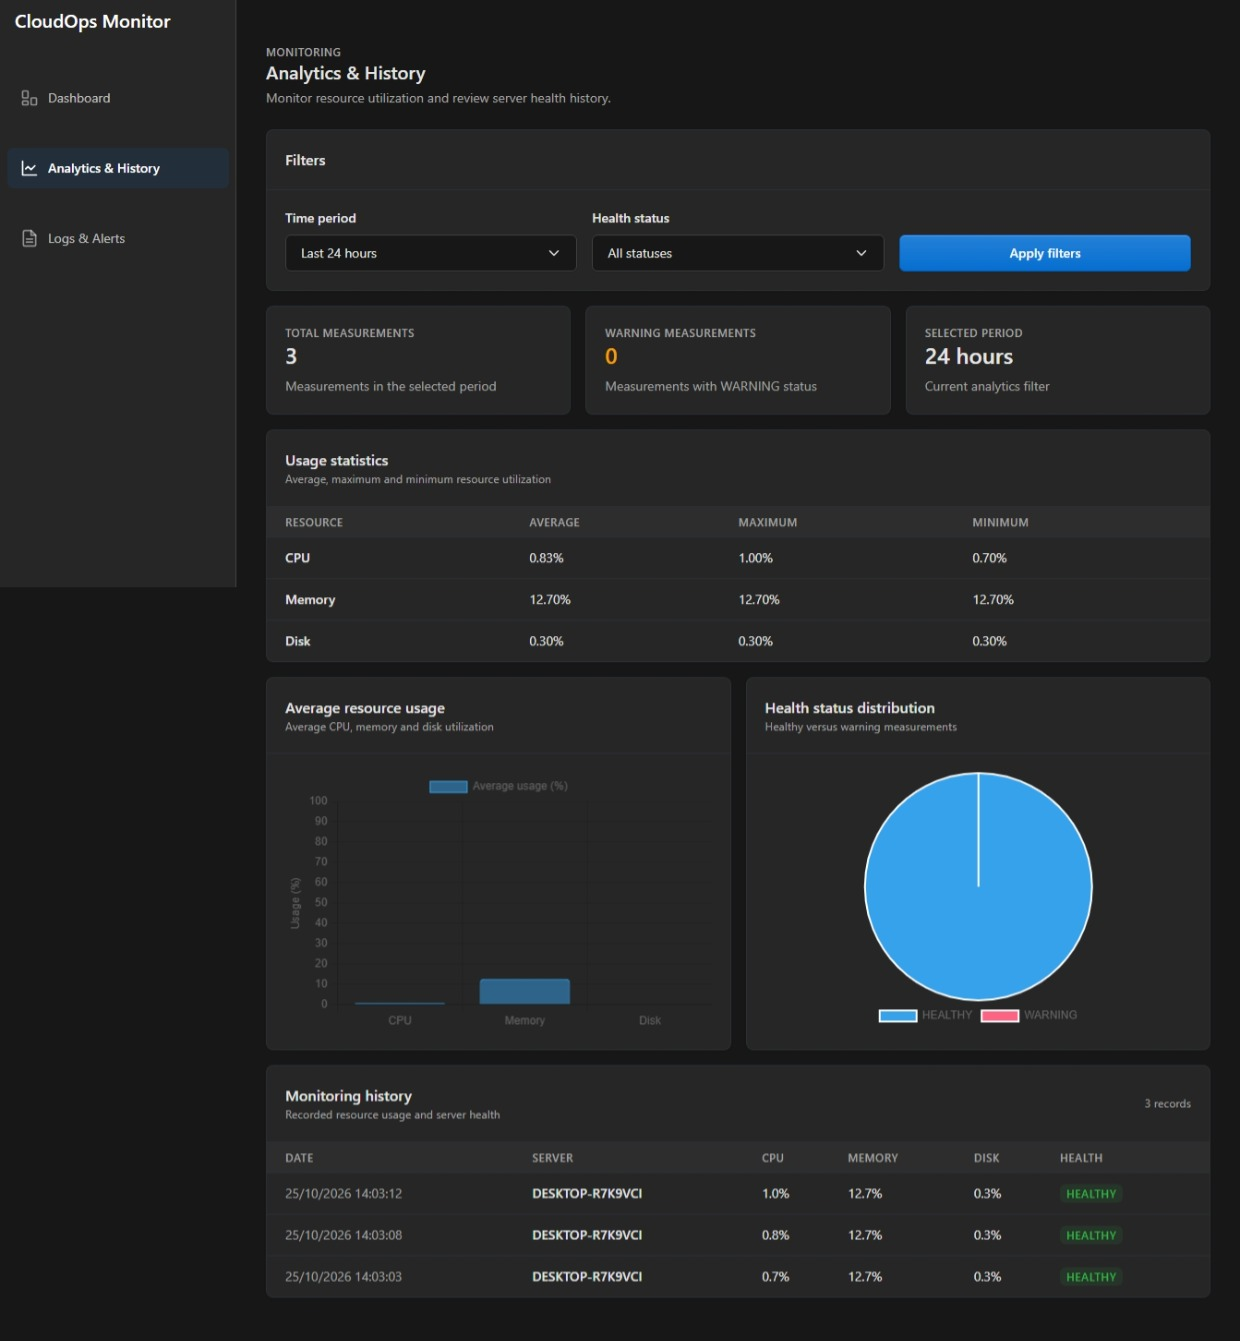
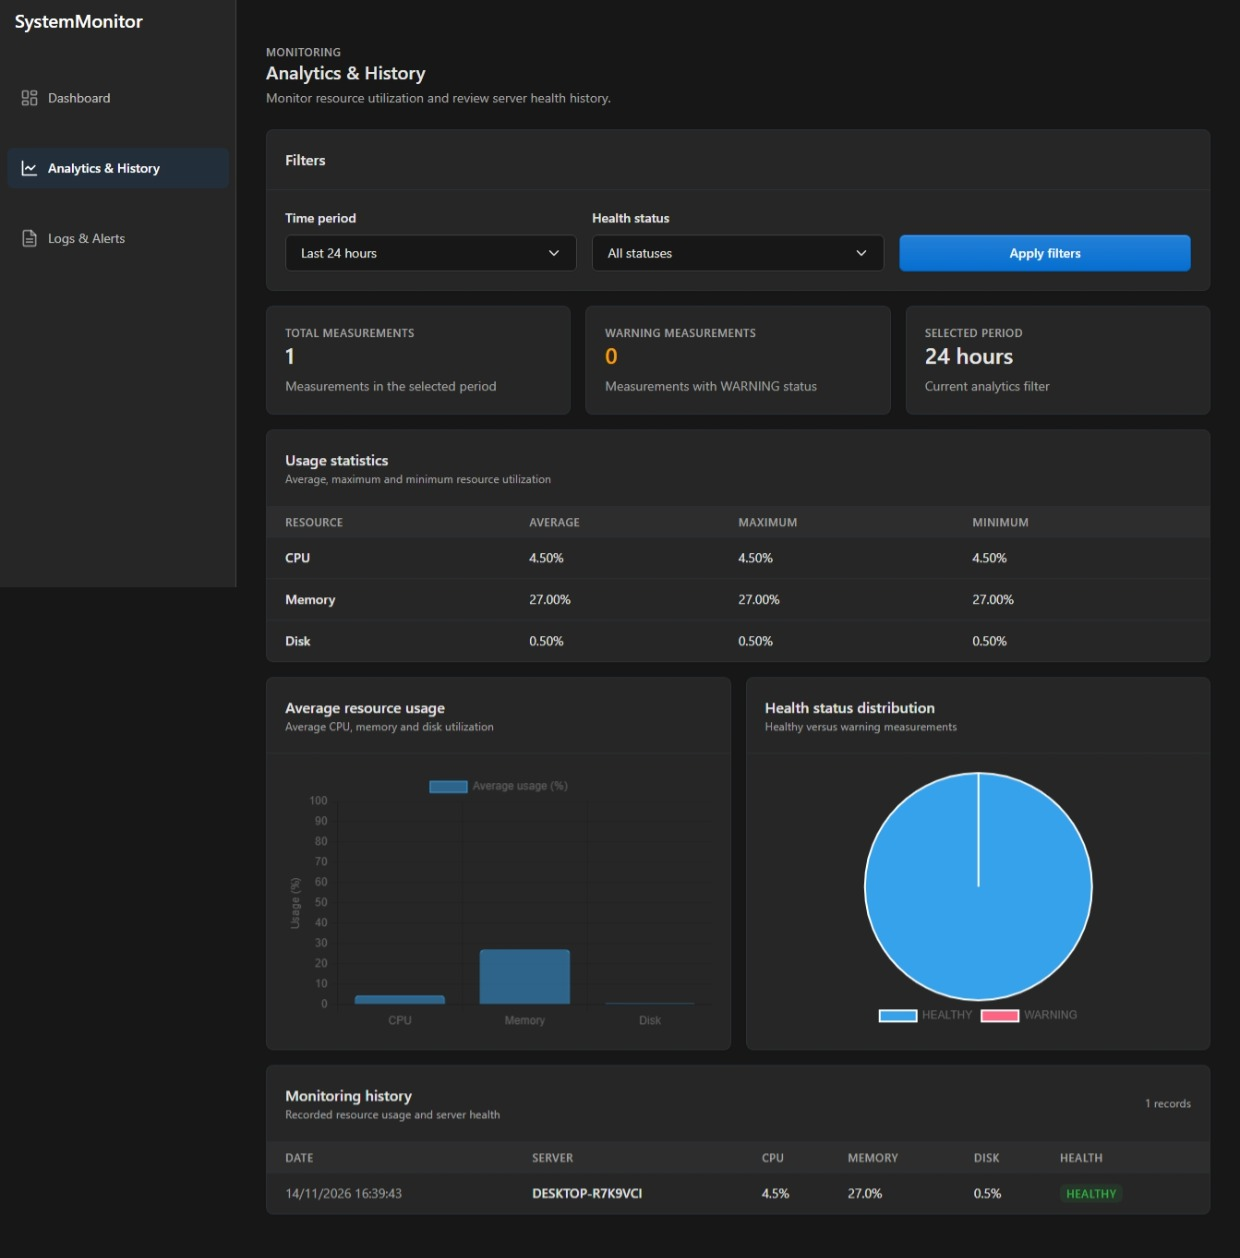
Update SystemMonitor branding, README and screenshots

diff --git a/templates/base.html b/templates/base.html
@@ -18,7 +18,7 @@
             <div class="container-fluid">
 
                 <h1 class="navbar-brand navbar-brand-autodark mb-4 w-100 text-center">
-                    <span>CloudOps Monitor</span>
+                    <span>SystemMonitor</span>
                 </h1>
 
                 <div class="collapse navbar-collapse show">
@@ -31,7 +31,7 @@
                                         fill="none" stroke="currentColor" stroke-width="2" stroke-linecap="round"
                                         stroke-linejoin="round">
                                         <rect x="3" y="3" width="7" height="9" rx="1" />
-                                        <rect x="14" y="3" width="7" heigh="5" rx="1" />
+                                        <rect x="14" y="3" width="7" height="5" rx="1" />
                                         <rect x="14" y="12" width="7" height="9" rx="1" />
                                         <rect x="3" y="16" width="7" height="5" rx="1" />
                                     </svg>

diff --git a/templates/index.html b/templates/index.html
@@ -1,11 +1,11 @@
 {% extends "base.html" %}
-{% block title %}CloudOps Monitor | Dashboard{% endblock %}
+{% block title %}SystemMonitor | Dashboard{% endblock %}
 
 {% block content %}
 
 <style>
     /* ==========================================
-       CLOUDOPS MONITOR — GRAPHITE DASHBOARD
+       SYSTEM MONITOR — GRAPHITE DASHBOARD
        ========================================== */
 
     .dashboard {

diff --git a/templates/logs.html b/templates/logs.html
@@ -1,5 +1,5 @@
 {% extends "base.html" %}
-{% block title %}CloudOps Monitor | Logs & Alerts{% endblock %}
+{% block title %}SystemMonitor | Logs & Alerts{% endblock %}
 {% block content %}
 <div class="page-header d-print-none mb-4">
     <div class="row align-items-center">

diff --git a/templates/analytics.html b/templates/analytics.html
@@ -1,5 +1,5 @@
 {% extends "base.html" %}
-{% block title %}CloudOps Monitor | Analytics{% endblock %}
+{% block title %}SystemMonitor | Analytics{% endblock %}
 {% block content %}
 <!-- Page header -->
 <div class="page-header d-print-none">

diff --git a/monitoring/reports.py b/monitoring/reports.py
@@ -34,7 +34,7 @@ def build_report(date, server, cpu_status, memory_status,
 
     report = f"""
 ==================================================
-                 CLOUDOPS MONITOR
+                 SYSTEMMONITOR
 ==================================================
 Monitoring date: {date}
 Server name: {server.server_name if server.server_name is not None else "Unavailable"}

diff --git a/app.py b/app.py
@@ -103,3 +103,6 @@ def logs():
         logs_content=logs_content,
         alert_filter=alert_filter,
     )
+
+if __name__ == "__main__":
+    app.run(debug=True, port=5000)    

diff --git a/README.md b/README.md
@@ -1,50 +1,55 @@
-# CloudOps Monitor
+# SystemMonitor
 
-CloudOps Monitor is a Python-based monitoring application designed to collect and display system metrics, monitor server health, check web service availability, and provide historical monitoring data through a web interface.
+SystemMonitor est une application de supervision développée en Python. Elle permet de collecter et d’afficher des métriques système, de surveiller l’état des serveurs, de vérifier la disponibilité des services web et de consulter l’historique des opérations de supervision à travers une interface web.
 
-The project combines system monitoring, data persistence, analytics, and log-based alerts in a Flask web application.
+Le projet combine la supervision système, la persistance des données, l’analyse des résultats et la gestion des alertes à partir des journaux, au sein d’une application web développée avec Flask.
 
-## Features
+## Fonctionnalités
 
-* System Metrics: Collects CPU, memory, and disk usage.
-* Server Health Monitoring: Evaluates server health based on monitoring results.
-* Web Service Checks: Checks web service availability and records HTTP responses.
-* Monitoring History: Stores monitoring results in an SQLite database.
-* Analytics Dashboard: Displays monitoring statistics and supports filtering by period and health status.
-* Logs and Alerts: Displays monitoring reports and allows filtering of alerts and web service errors.
-* Web Interface: Provides a dashboard built with Flask, HTML, CSS, and JavaScript.
+* Métriques système : collecte de l’utilisation du processeur (CPU), de la mémoire et du disque.
+* Surveillance de l’état des serveurs : évaluation de leur état de santé à partir des résultats de supervision.
+* Vérification des services web : contrôle de leur disponibilité et enregistrement des réponses HTTP.
+* Historique de supervision : stockage des résultats dans une base de données SQLite.
+* Tableau de bord analytique : affichage de statistiques et filtrage des résultats par période et par état de santé.
+* Journaux et alertes : consultation des rapports de supervision et filtrage des alertes et des erreurs liées aux services web.
+* Interface web : tableau de bord développé avec Flask, HTML, CSS et JavaScript.
 
-## Design Approach
+## Approche de conception
 
-This project uses HTML templates and the Tabler UI framework to provide a clean and functional web interface.
+Ce projet utilise des modèles HTML et le framework d’interface Tabler afin de proposer une interface web claire et fonctionnelle.
 
-I chose this approach to focus primarily on backend development, including system metrics collection, server health monitoring, database operations, analytics, and log management, while still delivering a usable web application.
+J’ai choisi cette approche pour me concentrer principalement sur le développement backend, notamment la collecte des métriques système, la surveillance de l’état des serveurs, les opérations sur la base de données, l’analyse des résultats et la gestion des journaux, tout en proposant une application web utilisable.
 
-This allowed me to prioritize the core monitoring logic and infrastructure-related functionality rather than building a frontend interface from scratch.
+Cette approche m’a permis de privilégier la logique de supervision et les fonctionnalités liées aux systèmes et à l’infrastructure, plutôt que de développer une interface frontend entièrement à partir de zéro.
 
-## Technologies Used
+## Technologies utilisées
 
-* Python: Core application logic and monitoring operations.
-* Flask: Web application framework and routing.
-* SQLite: Persistent storage for monitoring history.
-* psutil: System metrics collection.
-* Requests: HTTP requests for web service availability checks.
-* HTML, CSS, and JavaScript: Web interface.
-* Tabler: UI framework used to build the dashboard layout and components.
-* Git: Version control.
-* Linux (Ubuntu/WSL): Development environment.
+* Python : logique principale de l’application et opérations de supervision.
+* Flask : framework web utilisé pour gérer l’application et ses routes.
+* SQLite : stockage persistant de l’historique de supervision.
+* psutil : collecte des métriques système.
+* Requests : envoi de requêtes HTTP pour vérifier la disponibilité des services web.
+* HTML, CSS et JavaScript : technologies utilisées pour l’interface web.
+* Tabler : framework d’interface utilisé pour construire la structure et les composants du tableau de bord.
+* Git : gestion des versions du code.
+* Linux (Ubuntu/WSL) : environnement de développement.
 
-## Project Structure
+## Structure du projet
 
 ```text
-python-cloudops-monitor/
+system-monitor/
+│
 ├── app.py
 ├── config.py
 ├── requirements.txt
+├── .gitignore
+├── README.md
+│
 ├── database/
 │   ├── __init__.py
 │   ├── db.py
 │   └── schema.sql
+│
 ├── monitoring/
 │   ├── __init__.py
 │   ├── analytics.py
@@ -54,9 +59,16 @@ python-cloudops-monitor/
 │   ├── reports.py
 │   ├── service.py
 │   └── web_checks.py
+│
+├── screenshots/
+│   ├── dashboard.jpeg
+│   ├── analytics.jpeg
+│   └── logsAlerts.jpeg
+│
 ├── static/
 │   ├── css/
 │   └── js/
+│
 └── templates/
     ├── base.html
     ├── index.html
@@ -64,72 +76,70 @@ python-cloudops-monitor/
     └── logs.html
 ```
 
-## Main Components
+## Principaux composants
 
-* app.py: Defines the Flask application and web routes.
-* config.py: Manages application configuration.
-* database/: Handles database initialization, metric storage, and history retrieval.
-* monitoring/: Contains the monitoring logic, metrics collection, health checks, reports, logs, and analytics.
-* templates/: Contains the HTML templates used to render the web pages.
-* static/: Contains the CSS and JavaScript resources used by the interface.
-* requirements.txt: Lists the Python dependencies required to run the application.
+* app.py : définit l’application Flask et les routes web.
+* config.py : gère la configuration de l’application.
+* database/ : contient les fonctionnalités d’initialisation de la base de données, de stockage des métriques et de récupération de l’historique.
+* monitoring/ : regroupe la logique de supervision, la collecte des métriques, les contrôles d’état, les rapports, les journaux et les analyses.
+* templates/ : contient les modèles HTML utilisés pour afficher les pages web.
+* static/ : contient les ressources CSS et JavaScript de l’interface.
+* requirements.txt : répertorie les dépendances Python nécessaires à l’application.
 
-## Installation and Usage
+## Installation et utilisation
 
-### Prerequisites
+### Prérequis
 
 * Python 3
 * Git
-* A Linux environment or Ubuntu through WSL
+* Un environnement Linux ou Ubuntu via WSL
 
-### 1. Clone the Repository
+### 1. Cloner le dépôt
 
 ```bash
-git clone <repository-url>
-cd python-cloudops-monitor
+git clone https://github.com/FrancescaYE/system-monitor
+cd system-monitor
 ```
 
-Replace `<repository-url>` with the URL of your GitHub repository.
-
-### 2. Create a Virtual Environment
+### 2. Créer un environnement virtuel
 
 ```bash
 python3 -m venv .venv
 ```
 
-### 3. Activate the Virtual Environment
+### 3. Activer l’environnement virtuel
 
 ```bash
 source .venv/bin/activate
 ```
 
-### 4. Install Dependencies
+### 4. Installer les dépendances
 
 ```bash
 pip install -r requirements.txt
 ```
 
-### 5. Start the Application
+### 5. Démarrer l’application
 
 ```bash
-flask --app app run
+pyhon app.py
 ```
 
-### 6. Open the Dashboard
+### 6. Accéder au tableau de bord
 
-Open the following address in your browser:
+Ouvrez l’adresse suivante dans votre navigateur :
 
 http://127.0.0.1:5000
 
-The application provides access to the Dashboard, Analytics & History, and Logs & Alerts pages.
+L’application donne accès au tableau de bord, à la page d’analyse et d’historique, ainsi qu’à la page des journaux et des alertes.
 
-## Screenshots
+## Captures d’écran
 
-### Dashboard
-![CloudOps Monitor Dashboard](screenshots/dashboard.jpeg)
+### Tableau de bord
+![Tableau de bord SystemMonitor](screenshots/dashboard.jpeg)
 
-### Analytics
-![CloudOps Monitor Analytics](screenshots/analytics.jpeg)
+### Analyses
+![Analyses SystemMonitor](screenshots/analytics.jpeg)
 
-### Logs and alerts
-![CloudOps Monitor Logs and Alerts](screenshots/logsAlerts.jpeg)
+### Journaux et alertes
+![Journaux et alertes SystemMonitor](screenshots/logsAlerts.png)
